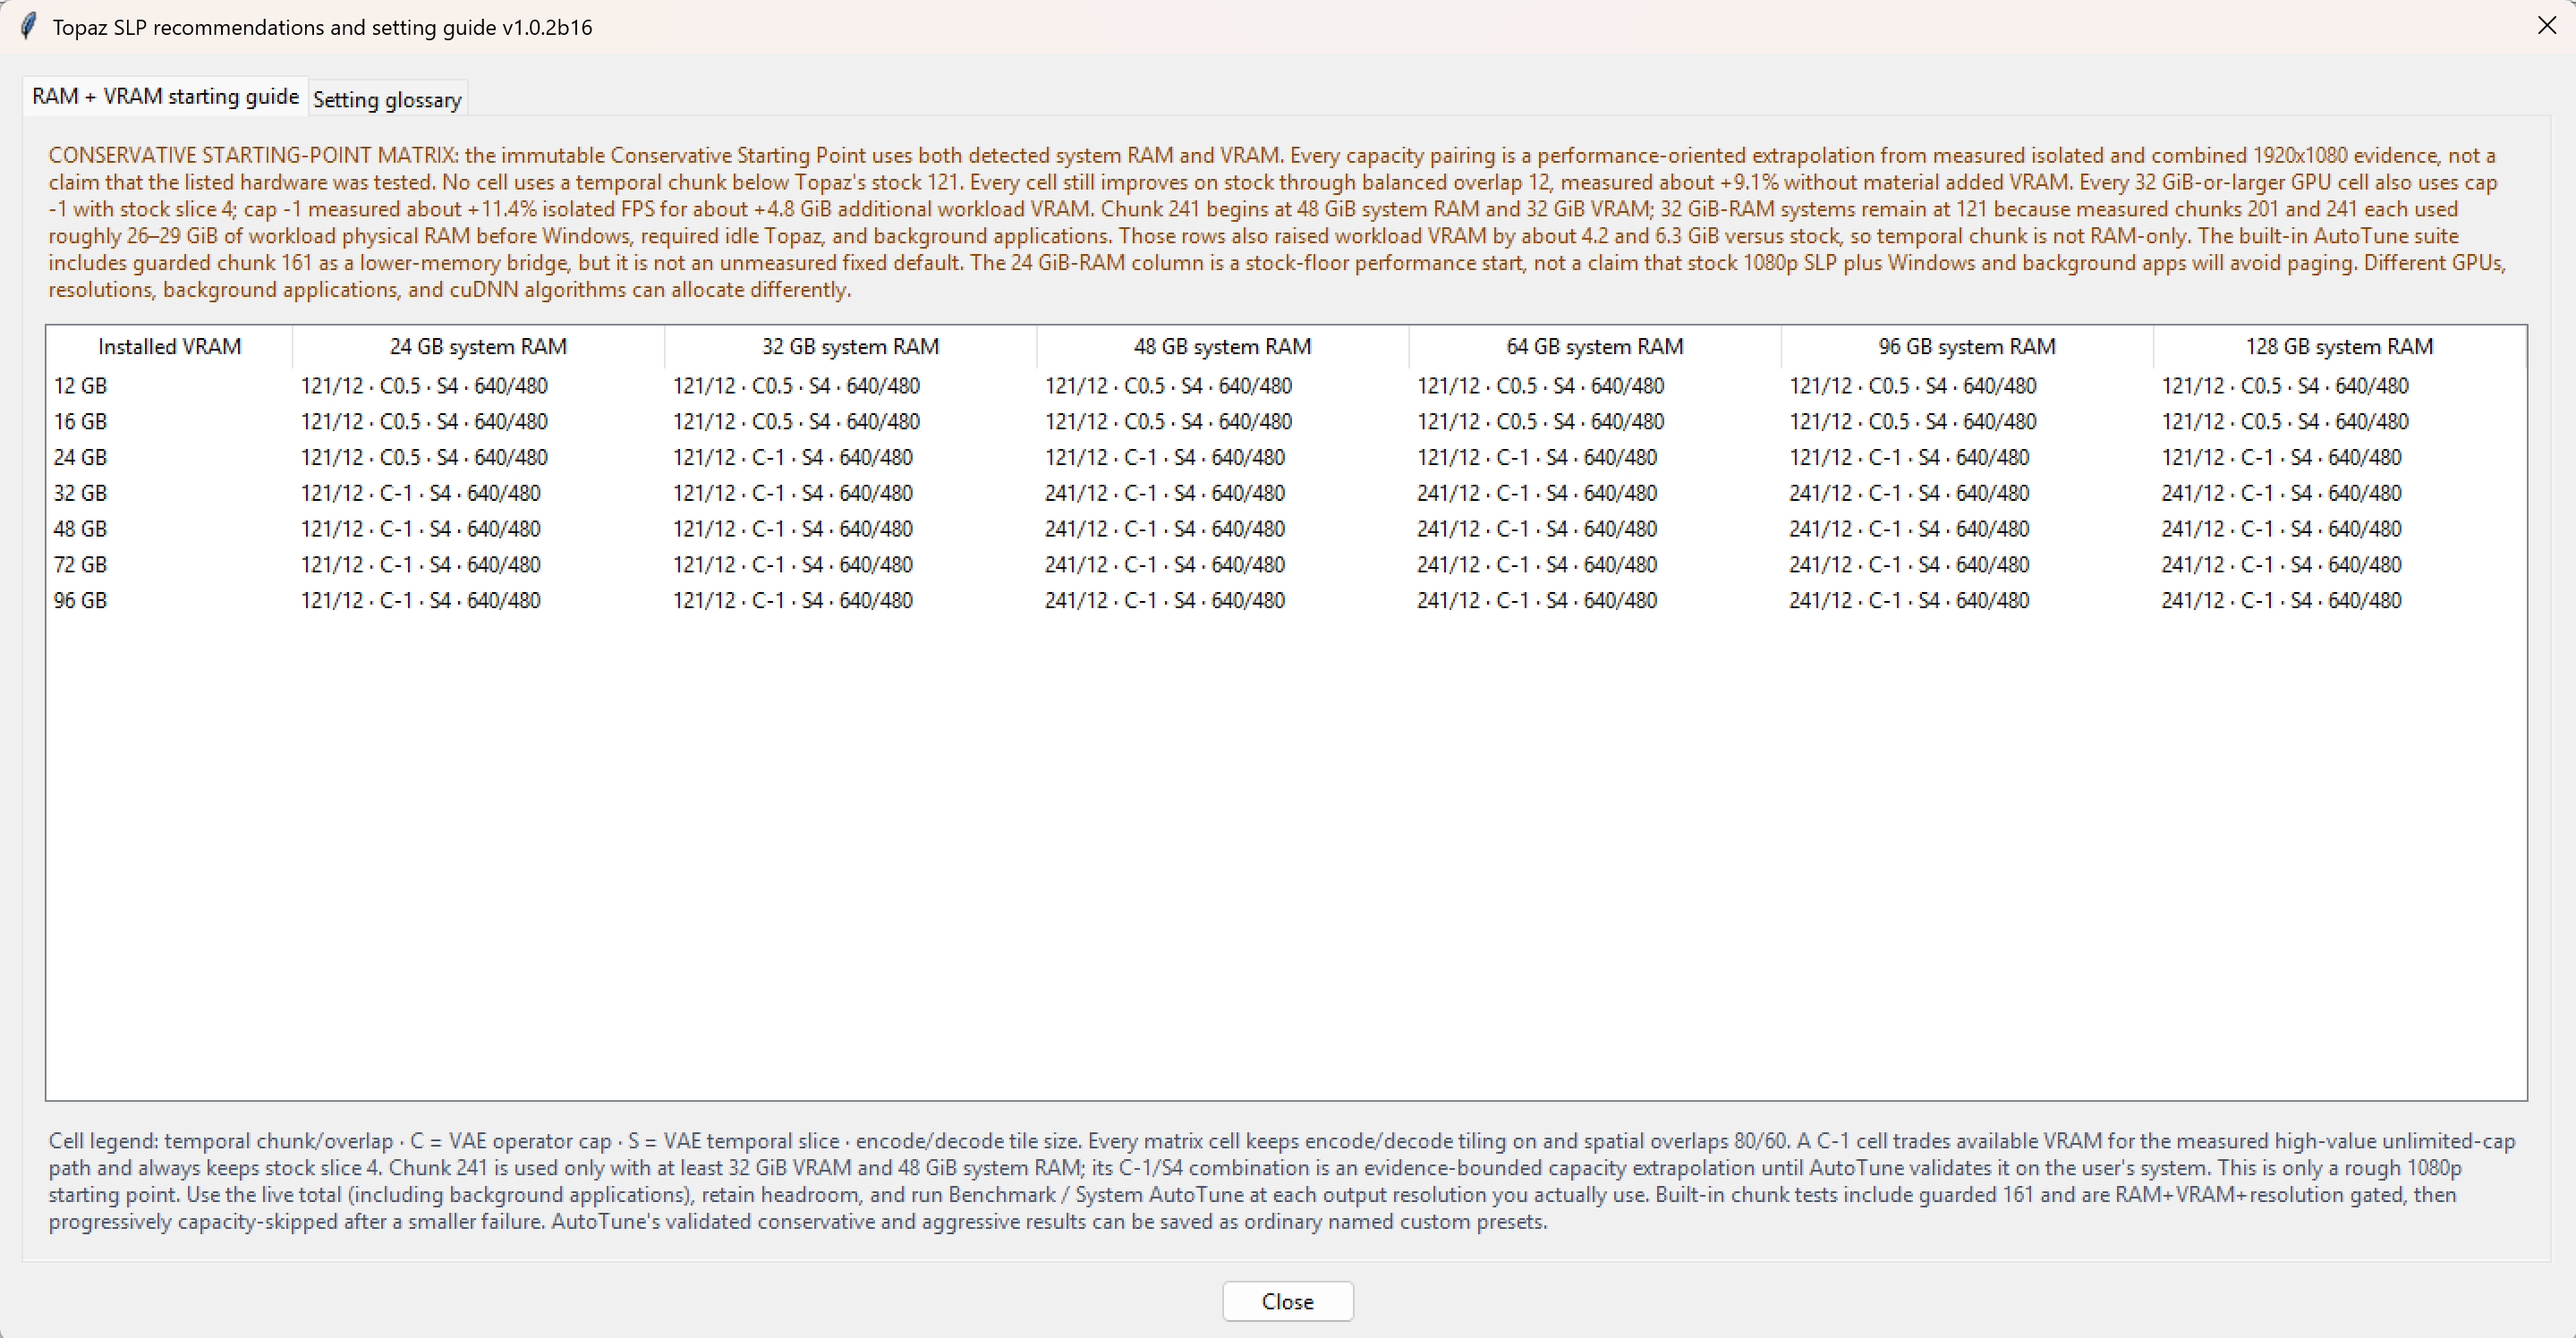
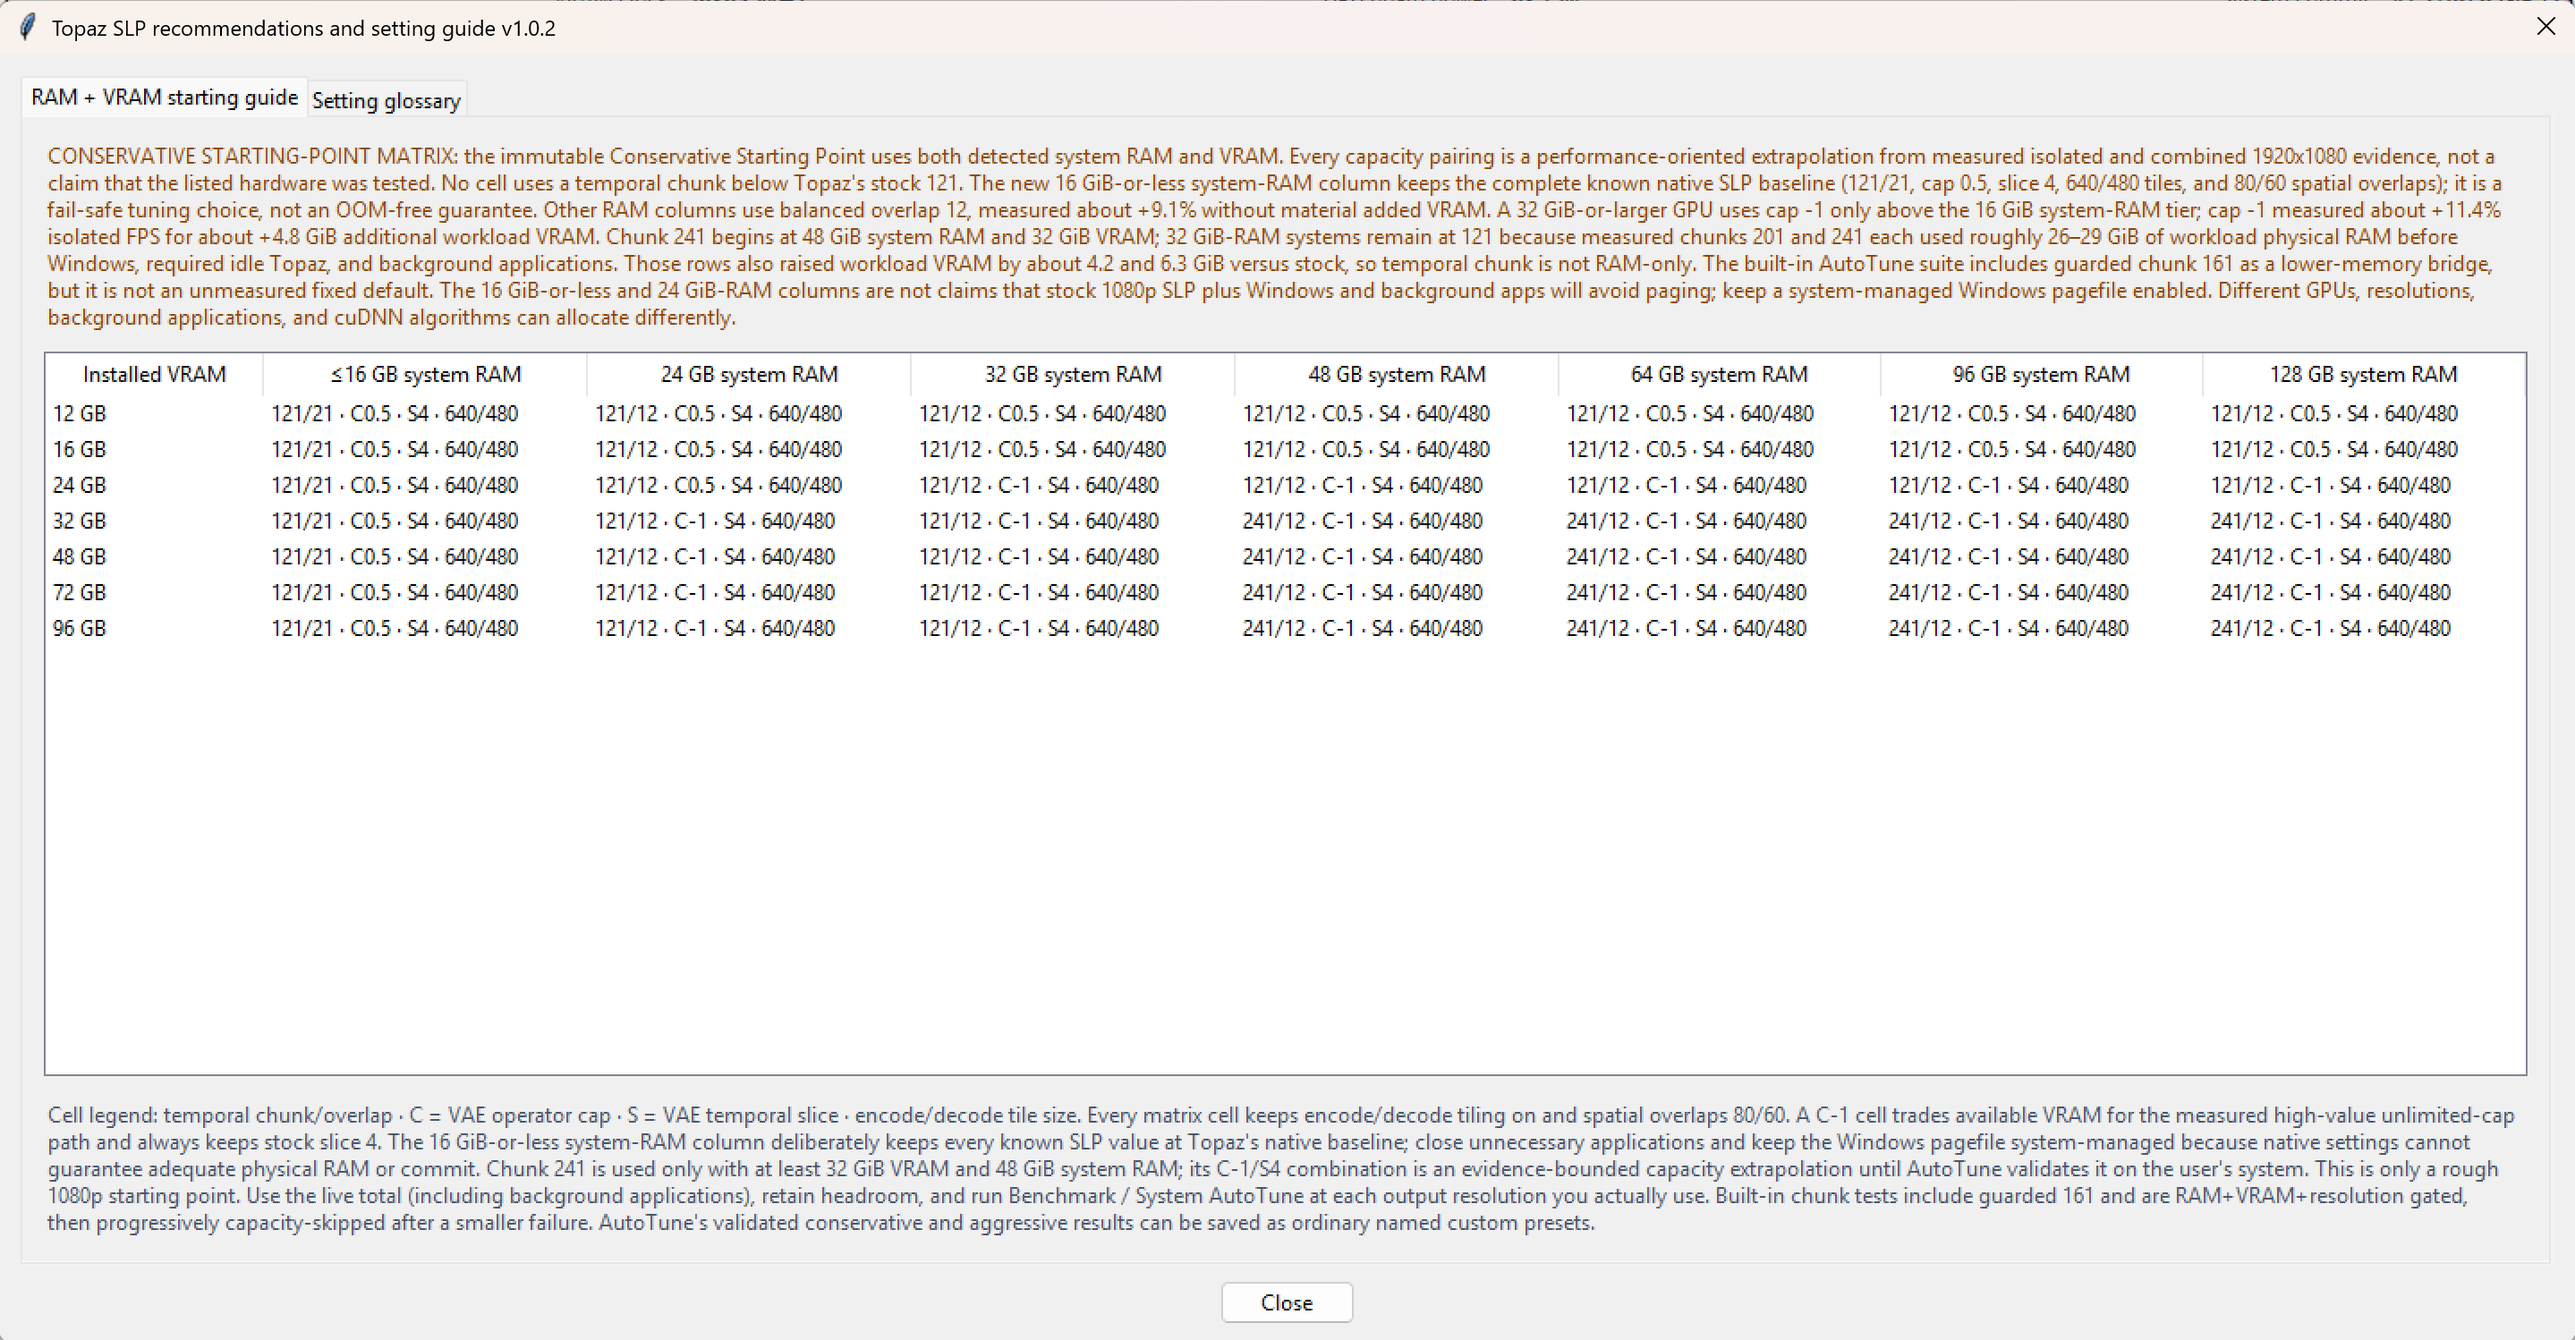
Use official Topaz 1.7 wording and update guide matrix

diff --git a/README.md b/README.md
@@ -84,7 +84,7 @@ The launcher keeps an atomic applied-settings snapshot. **Apply Settings** is gr
 
 **Detect & restore Topaz defaults** first accepts a complete pre-override native snapshot whose Topaz executable and SLP-module sizes and SHA-256 hashes still match. It can also restore the verified factory values before Topaz starts when the installed SLP module exactly matches a known size and SHA-256 profile; this identity is independent of the installed cuDNN DLLs, so a user-replaced cuDNN cannot be mistaken for proof of native SLP settings. On success it loads the detected display values with no SLP tuning overrides and disables faster threaded preflight; click **Apply Settings** to commit the change. If the selected runner has no cached native snapshot yet, the warning explains that Topaz must be launched through the tuner and an SLP 2.6 export started so the hook can capture and cache the pre-override values. Selecting Stock Topaz manually supplies no tuning overrides but does not change the separate threaded-preflight preference. Neither action restores, uninstalls, or otherwise changes cuDNN; use **Restore Topaz cuDNN** for those DLLs.
 
-**Restore Topaz cuDNN** is an exact rollback, not a version-label toggle. It selects the verified backup bound to the selected `Topaz Video.exe`, restores precisely that saved DLL set, removes components found only in the upgraded package, and independently rechecks every active file's size and SHA-256 hash plus the Topaz version, executable identity, backup-manifest hash, and fresh per-operation evidence. It also accepts an idempotent repair when the version label was already Topaz's but a file needed replacement. Topaz and neuroserver must be closed, and Topaz must be relaunched afterward before comparing speed. A matching older portable backup is imported into executable-adjacent storage without deleting the original; if an exact-executable Topaz backup already exists, a differing active/upgraded DLL set reuses that verified generation and can never be captured as a new “Topaz” backup. If the backup is missing or corrupt, built-in recovery is available only when every pinned recovery identity check matches; otherwise it stops without guessing.
+**Restore Topaz cuDNN** is an exact rollback, not a version-label toggle. It selects the verified backup bound to the selected `Topaz Video.exe`, restores precisely that saved DLL set, removes components found only in the upgraded package, and independently rechecks every active file's size and SHA-256 hash plus the Topaz version, executable identity, backup-manifest hash, and fresh per-operation evidence. It also accepts an idempotent repair when the version label was already Topaz's but a file needed replacement. Topaz and neuroserver must be closed, and Topaz must be relaunched afterward before comparing speed. A matching older portable backup is imported into executable-adjacent storage without deleting the original; if an exact-executable Topaz backup already exists, a differing active/upgraded DLL set reuses that verified generation and can never be captured as a new “Topaz” backup. If the backup is missing or corrupt, supported Topaz Video 1.7 builds can use built-in recovery only when every pinned recovery identity check matches; otherwise it stops without guessing.
 
 ### v1.0.1 memory-regression safeguard
 
@@ -169,7 +169,7 @@ The earlier b3 validation gate measured a historical 241/12 combination with a *
 
 The displayed **Topaz/SLP VRAM used above prelaunch background** is estimated from `peak total VRAM - prelaunch background VRAM`, so background applications are not attributed to Topaz. It is not VRAM added on top of the stock requirement. When Topaz is closed, the live monitor updates the user's current background allocation and separately displays the estimated total.
 
-The RAM and VRAM estimates are deliberately broad and calibrated only for the measured SLP 2.6, 1920×1080, scale-1 campaign on the benchmarked 96 GB NVIDIA GPU. They are not safety guarantees. Guarded untiled 1080p VAE decode completed in the new campaign, but its roughly 53 GiB workload VRAM demand and slower speed make it a diagnostic row rather than a recommendation; keep decode tiling enabled.
+The RAM and VRAM estimates are deliberately broad and calibrated only for Topaz Video 1.7 with SLP 2.6, 1920×1080, scale 1, and the benchmarked 96 GB NVIDIA GPU. They are not safety guarantees. Guarded untiled 1080p VAE decode completed in the new campaign, but its roughly 53 GiB workload VRAM demand and slower speed make it a diagnostic row rather than a recommendation; keep decode tiling enabled.
 
 The new isolated rows make the tradeoffs clearer. Stock chunk 121 used about 9.5 GiB workload VRAM; chunk 241 used 15.8 GiB and chunk 361 used 22.1 GiB. Positive operator caps 1/2/4/8 clustered near a 0.9 GiB VRAM increase for only about 1.2-1.4% matched speed gain, while `-1` added about 4.8 GiB and gained 11.43%. Split 8/12 added about 3.0/5.1 GiB and gained 3.25/3.68%. Larger spatial tiles were generally slower and heavier than stock 640/480. Guarded untiled decode completed but was about 2.28% slower and used roughly 53.0 GiB workload VRAM / 74.2 GiB workload commit, so it is not promoted.
 
